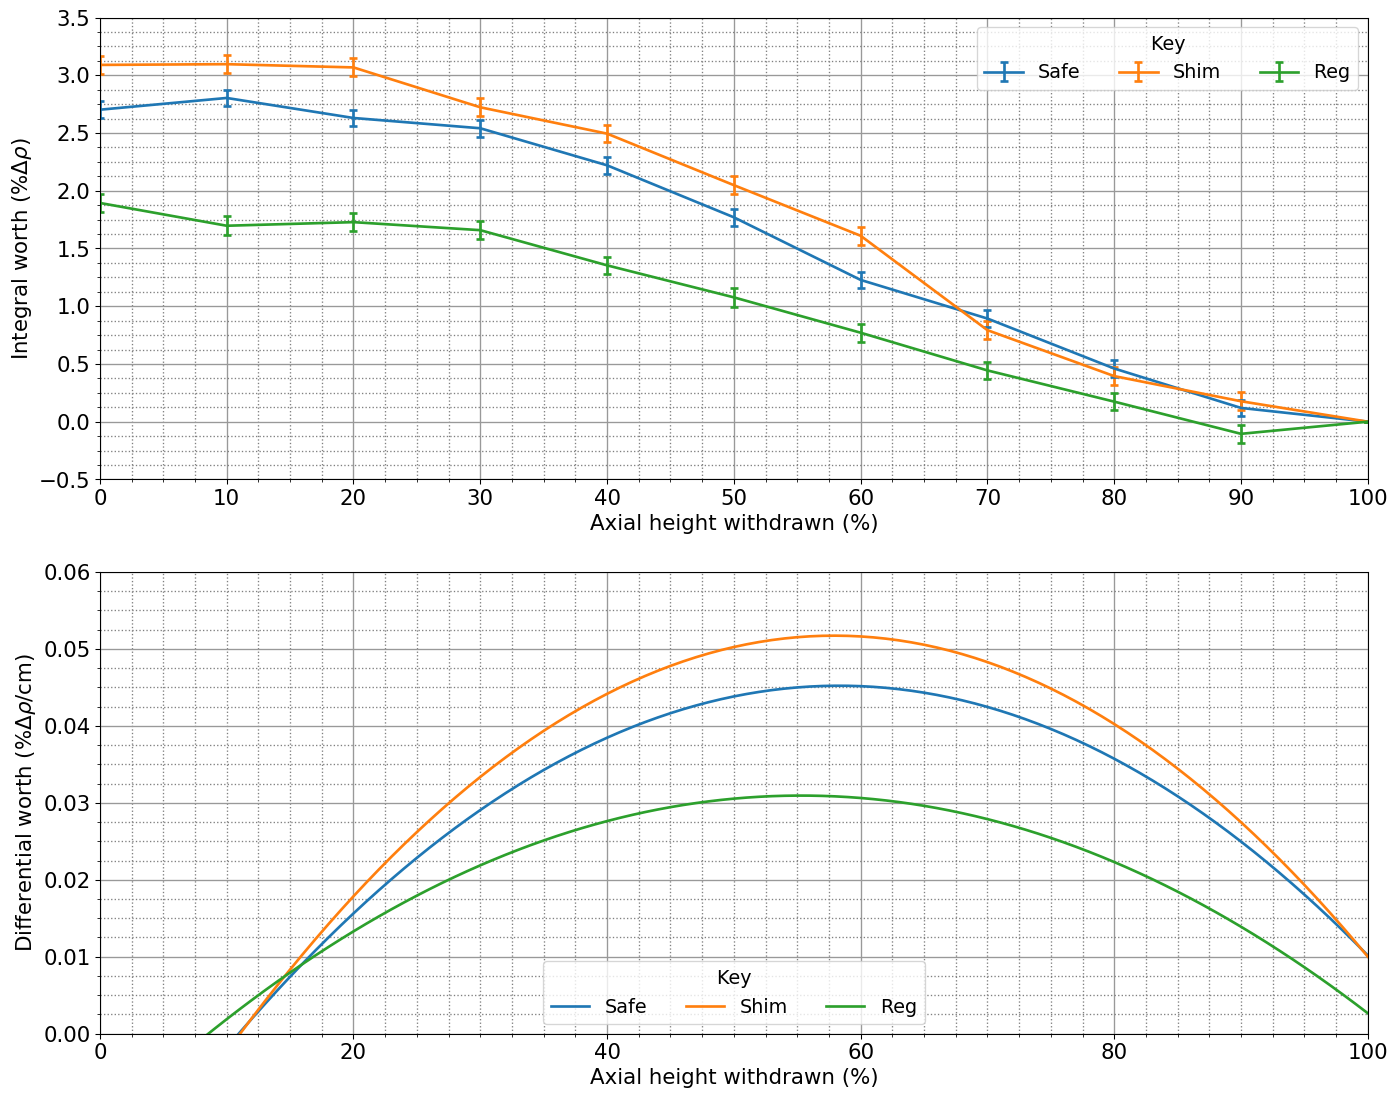
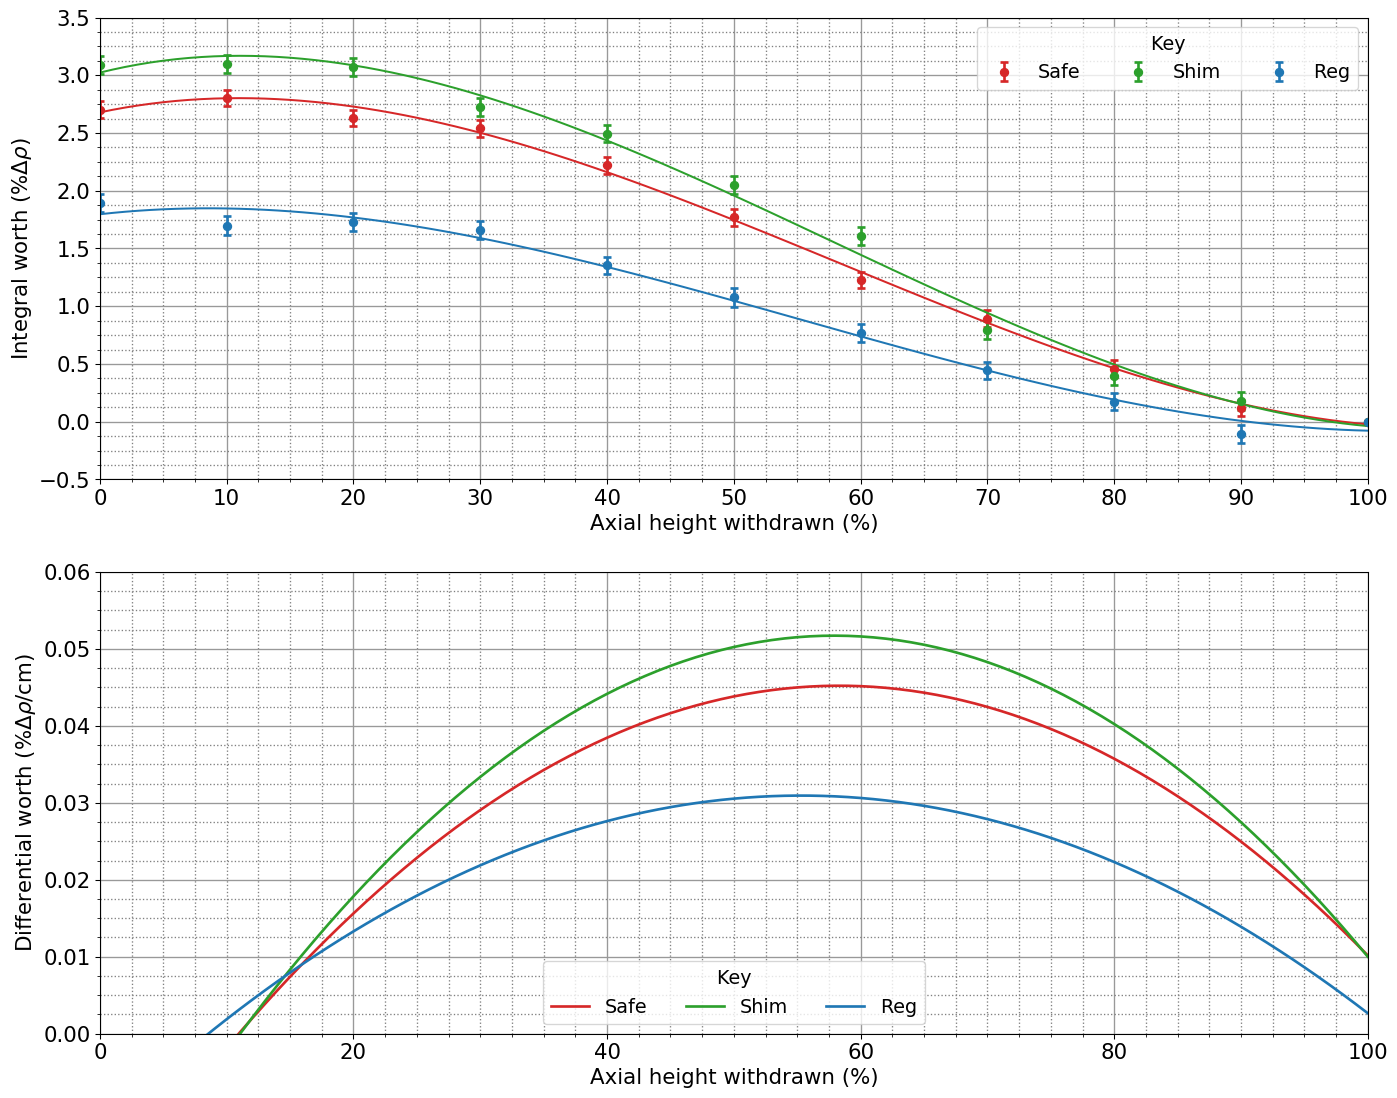
figure aesthetic changes

diff --git a/rc_m.py b/rc_m.py
@@ -25,7 +25,7 @@ import matplotlib
 import matplotlib.pyplot as plt
 from matplotlib.ticker import MultipleLocator
 
-# from mcnp_funcs import *
+from mcnp_funcs import *
 
 # Variables
 filepath = "C:/MCNP6/facilities/reed/rodcal-mcnp" # do NOT include / at the end
@@ -35,7 +35,7 @@ heights = [0,10,20,30,40,50,60,70,80,90,100] # for use in name strings, use str(
 # Main function to be executed
 def main(argv):
     os.chdir(f'{filepath}')
-    '''
+    # '''
     base_input_name = find_base_file(filepath)
     check_kcode(filepath,base_input_name)
 
@@ -81,7 +81,7 @@ def main(argv):
     keff_df.to_csv("keff.csv")
 
     convert_keff_to_rho("keff.csv","rho.csv")
-    '''
+    # '''
     plot_rodcal_data("rho.csv")
     
 def plot_rodcal_data(rho_csv_name):
@@ -93,6 +93,7 @@ def plot_rodcal_data(rho_csv_name):
     
     fig,axs = plt.subplots(2,1, figsize=(1636/my_dpi, 2*673/my_dpi), dpi=my_dpi,facecolor='w',edgecolor='k')
     ax_int, ax_dif = axs[0], axs[1] # integral, differential worth on top, bottom, resp.
+    color = {rods[0]:"tab:red",rods[1]:"tab:green",rods[2]:"tab:blue"}
     
     for rod in rods: # We want to sort our curves by rods
         int_y = rho_df[f"{rod}"].tolist()
@@ -100,13 +101,14 @@ def plot_rodcal_data(rho_csv_name):
 
         int_eq = np.polyfit(heights,int_y,3) # integral worth curve equation
         fit_x = np.linspace(heights[0],heights[-1],heights[-1]-heights[0]+1)
-        # int_fit_y = np.polyval(int_eq,fit_x)
+        int_fit_y = np.polyval(int_eq,fit_x)
         
         ax_int.errorbar(heights, int_y, yerr=int_y_unc,
+                            marker="o",ls="none",
                             label=f'{rod.capitalize()}',
-                            linewidth=2,capsize=3,capthick=2)
+                            color=color[rod],elinewidth=2,capsize=3,capthick=2)
         
-        # ax_int.plot(heights,int_y,"o",fit_x,int_fit_y)
+        ax_int.plot(fit_x,int_fit_y,color=color[rod])
         
 
         dif_eq = -1*np.polyder(int_eq) # differential worth curve equation
@@ -116,8 +118,7 @@ def plot_rodcal_data(rho_csv_name):
         
         ax_dif.errorbar(fit_x, dif_fit_y,
                             label=f'{rod.capitalize()}',
-                            linewidth=2,capsize=3,capthick=2)
-        
+                            color=color[rod],linewidth=2,capsize=3,capthick=2)
     
     x_label = "Axial height withdrawn (%)"
     y_label_int = r"Integral worth $(\%\Delta\rho)$"
